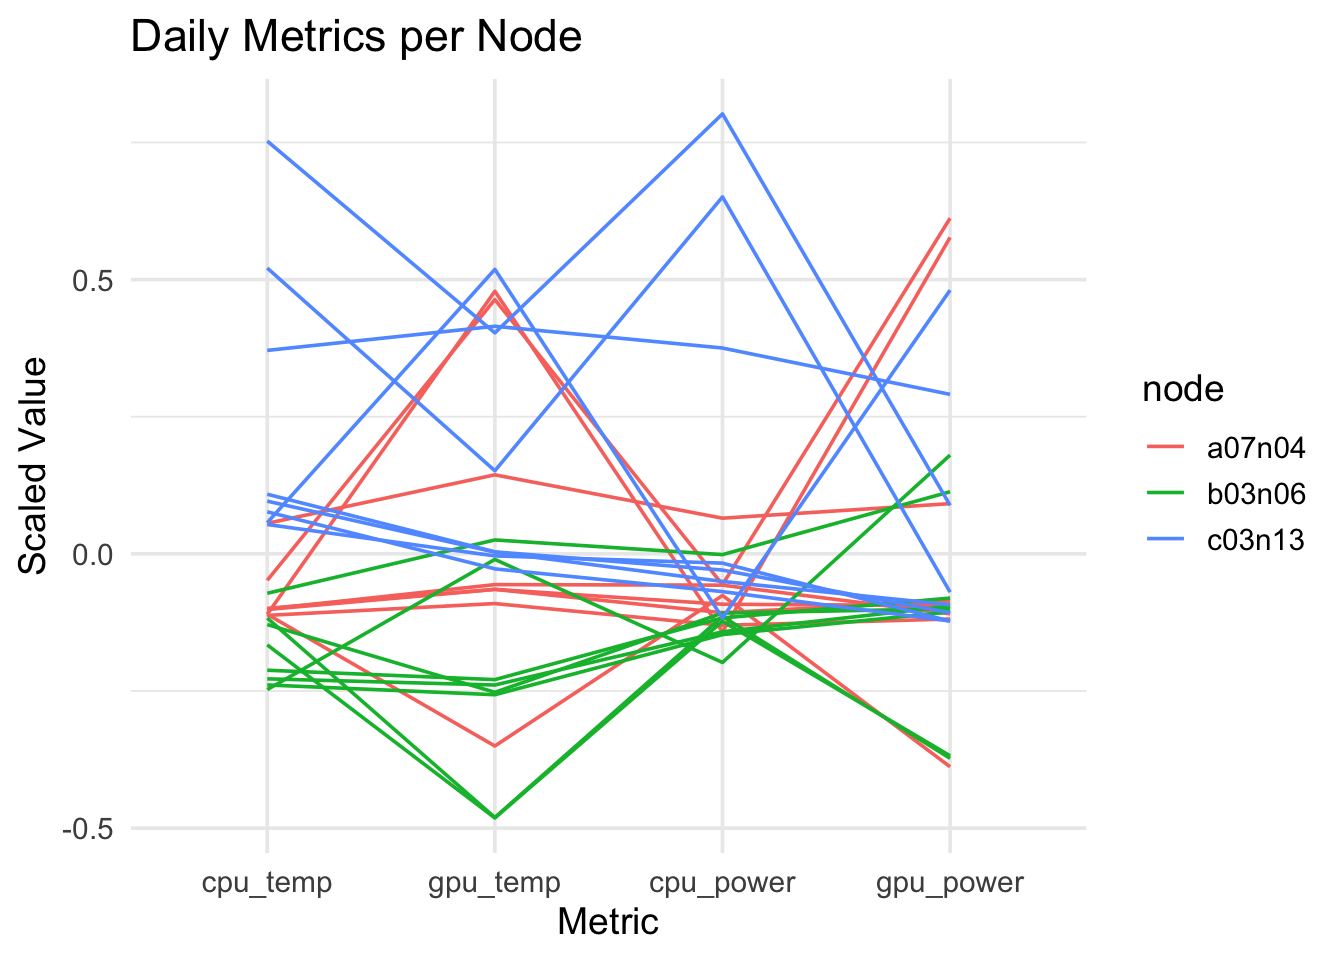
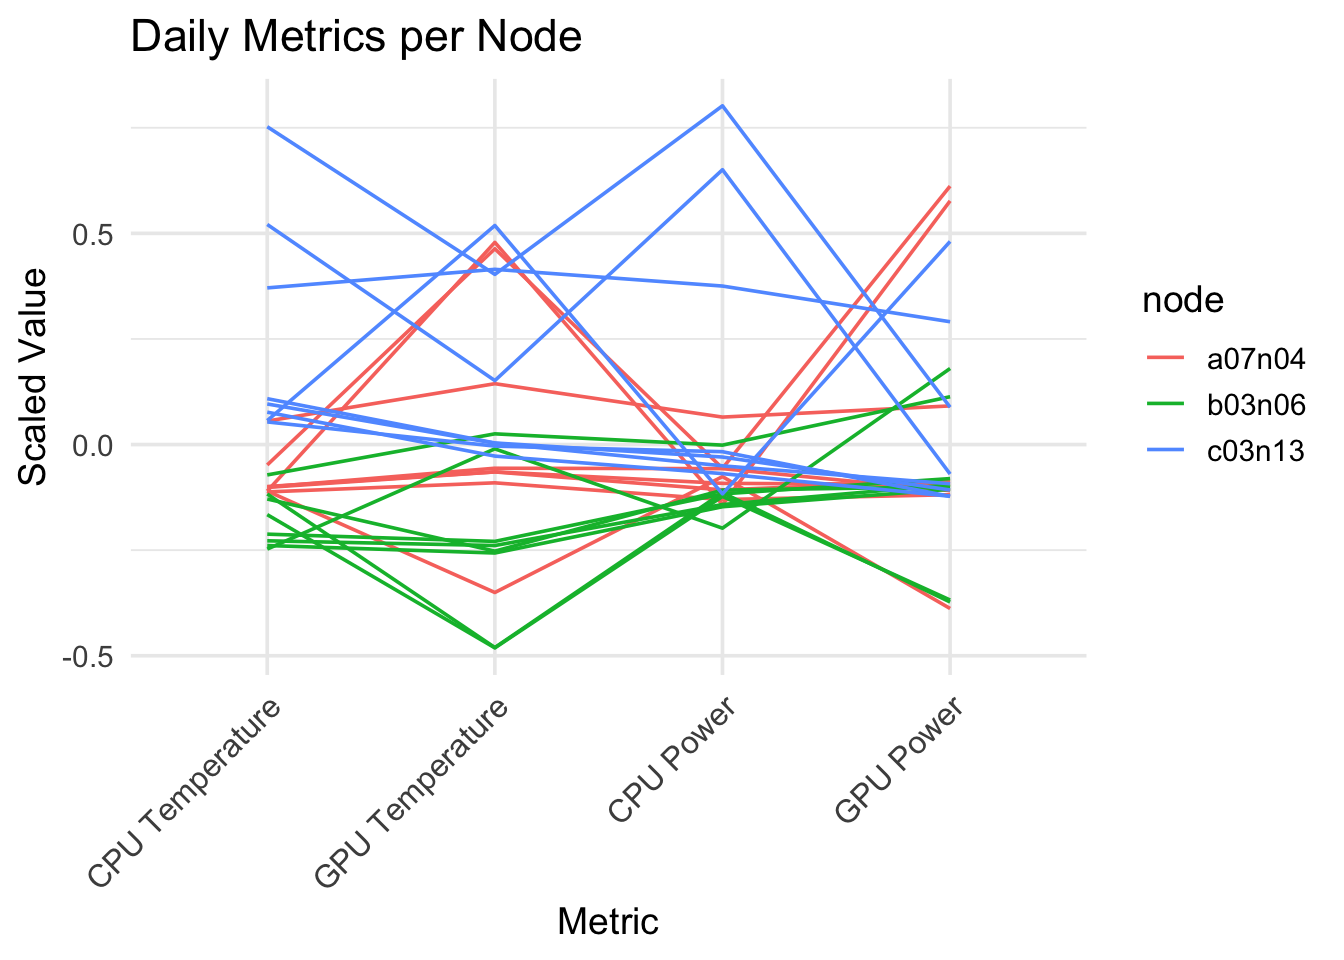
Project Submission Commit

diff --git a/docs/results.html b/docs/results.html
@@ -210,7 +210,7 @@ pre > code.sourceCode > span > a:first-child::before { text-decoration: underlin
 
 <section id="short-summary" class="level2" data-number="3.1">
 <h2 data-number="3.1" class="anchored" data-anchor-id="short-summary"><span class="header-section-number">3.1</span> Short Summary</h2>
-<p>Across the three computing nodes studied, temperature and power were closely related. Whenever the processing units worked harder, they drew more power and heated up almost immediately. While most of the week showed routine low temperature operation, each node also had short bursts of heat and power, which made unusual activity easy to spot. When coming their overall behavior, the nodes shared similar baseline performance, however, their power and temperature distributions uncovered some nodes may handle more demanding jobs or experience different cooling conditions. These patterns reveal how power usage, temperature, and occasional anomalies can vary within the same machine, offering insight into each node’s operational health.</p>
+<p>Across the three computing nodes studied, temperature and power were closely related. Whenever the processing units worked harder, they drew more power and heated up almost immediately. While most of the week showed routine low temperature operation, each node also had short bursts of heat and power, which made unusual activity easy to spot. The nodes shared similar baseline performance, however, their power and temperature distributions uncovered some nodes may handle more demanding jobs or experience different cooling conditions. These patterns reveal how power usage, temperature, and occasional anomalies can vary within the same machine, offering insight into each node’s operational health.</p>
 <div class="cell">
 <details class="code-fold">
 <summary>Code</summary>
@@ -427,20 +427,25 @@ pre > code.sourceCode > span > a:first-child::before { text-decoration: underlin
 <details class="code-fold">
 <summary>Code</summary>
 <div class="sourceCode cell-code" id="cb9"><pre class="sourceCode r code-with-copy"><code class="sourceCode r"><span id="cb9-1"><a href="#cb9-1" aria-hidden="true" tabindex="-1"></a>df_trc <span class="ot">&lt;-</span> df_all <span class="sc">|&gt;</span></span>
-<span id="cb9-2"><a href="#cb9-2" aria-hidden="true" tabindex="-1"></a>  <span class="fu">mutate</span>(</span>
-<span id="cb9-3"><a href="#cb9-3" aria-hidden="true" tabindex="-1"></a>    <span class="at">date =</span> <span class="fu">as.Date</span>(timestamp)</span>
-<span id="cb9-4"><a href="#cb9-4" aria-hidden="true" tabindex="-1"></a>  )</span>
-<span id="cb9-5"><a href="#cb9-5" aria-hidden="true" tabindex="-1"></a></span>
-<span id="cb9-6"><a href="#cb9-6" aria-hidden="true" tabindex="-1"></a><span class="fu">ggplot</span>(df_trc, <span class="fu">aes</span>(gpu_power_total, gpu_temp, <span class="at">color =</span> <span class="fu">factor</span>(date))) <span class="sc">+</span></span>
-<span id="cb9-7"><a href="#cb9-7" aria-hidden="true" tabindex="-1"></a>  <span class="fu">geom_smooth</span>(<span class="at">method =</span> <span class="st">"lm"</span>, <span class="at">se =</span> <span class="cn">FALSE</span>, <span class="at">linewidth =</span> <span class="fl">1.1</span>) <span class="sc">+</span></span>
-<span id="cb9-8"><a href="#cb9-8" aria-hidden="true" tabindex="-1"></a>  <span class="fu">facet_wrap</span>(<span class="sc">~</span> node, <span class="at">scales =</span> <span class="st">"free"</span>) <span class="sc">+</span></span>
-<span id="cb9-9"><a href="#cb9-9" aria-hidden="true" tabindex="-1"></a>  <span class="fu">scale_color_viridis_d</span>(<span class="at">name =</span> <span class="st">"Date"</span>) <span class="sc">+</span></span>
-<span id="cb9-10"><a href="#cb9-10" aria-hidden="true" tabindex="-1"></a>  <span class="fu">labs</span>(</span>
-<span id="cb9-11"><a href="#cb9-11" aria-hidden="true" tabindex="-1"></a>    <span class="at">title =</span> <span class="st">"Thermal Response Curve: GPU Temperature vs GPU Power"</span>,</span>
-<span id="cb9-12"><a href="#cb9-12" aria-hidden="true" tabindex="-1"></a>    <span class="at">x =</span> <span class="st">"GPU Power (W)"</span>,</span>
-<span id="cb9-13"><a href="#cb9-13" aria-hidden="true" tabindex="-1"></a>    <span class="at">y =</span> <span class="st">"GPU Temperature (°C)"</span></span>
-<span id="cb9-14"><a href="#cb9-14" aria-hidden="true" tabindex="-1"></a>  ) <span class="sc">+</span></span>
-<span id="cb9-15"><a href="#cb9-15" aria-hidden="true" tabindex="-1"></a>  <span class="fu">theme_minimal</span>(<span class="at">base_size =</span> <span class="dv">16</span>)</span></code><button title="Copy to Clipboard" class="code-copy-button"><i class="bi"></i></button></pre></div>
+<span id="cb9-2"><a href="#cb9-2" aria-hidden="true" tabindex="-1"></a>  <span class="fu">mutate</span>(<span class="at">date =</span> <span class="fu">as.Date</span>(timestamp))</span>
+<span id="cb9-3"><a href="#cb9-3" aria-hidden="true" tabindex="-1"></a></span>
+<span id="cb9-4"><a href="#cb9-4" aria-hidden="true" tabindex="-1"></a><span class="fu">ggplot</span>(df_trc, <span class="fu">aes</span>(gpu_power_total, gpu_temp, <span class="at">color =</span> <span class="fu">factor</span>(date))) <span class="sc">+</span></span>
+<span id="cb9-5"><a href="#cb9-5" aria-hidden="true" tabindex="-1"></a>  <span class="fu">geom_smooth</span>(<span class="at">method =</span> <span class="st">"lm"</span>, <span class="at">se =</span> <span class="cn">FALSE</span>, <span class="at">linewidth =</span> <span class="fl">1.1</span>) <span class="sc">+</span></span>
+<span id="cb9-6"><a href="#cb9-6" aria-hidden="true" tabindex="-1"></a>  <span class="fu">facet_wrap</span>(<span class="sc">~</span> node, <span class="at">scales =</span> <span class="st">"free_x"</span>) <span class="sc">+</span></span>
+<span id="cb9-7"><a href="#cb9-7" aria-hidden="true" tabindex="-1"></a>  <span class="fu">scale_x_continuous</span>(</span>
+<span id="cb9-8"><a href="#cb9-8" aria-hidden="true" tabindex="-1"></a>    <span class="at">breaks =</span> <span class="fu">c</span>(<span class="dv">500</span>, <span class="dv">1000</span>, <span class="dv">1500</span>, <span class="dv">2000</span>),</span>
+<span id="cb9-9"><a href="#cb9-9" aria-hidden="true" tabindex="-1"></a>    <span class="at">labels =</span> <span class="fu">c</span>(<span class="st">"500"</span>, <span class="st">"1000"</span>, <span class="st">"1500"</span>, <span class="st">"2000"</span>)</span>
+<span id="cb9-10"><a href="#cb9-10" aria-hidden="true" tabindex="-1"></a>  ) <span class="sc">+</span></span>
+<span id="cb9-11"><a href="#cb9-11" aria-hidden="true" tabindex="-1"></a>  <span class="fu">scale_color_viridis_d</span>(<span class="at">name =</span> <span class="st">"Date"</span>) <span class="sc">+</span></span>
+<span id="cb9-12"><a href="#cb9-12" aria-hidden="true" tabindex="-1"></a>  <span class="fu">labs</span>(</span>
+<span id="cb9-13"><a href="#cb9-13" aria-hidden="true" tabindex="-1"></a>    <span class="at">title =</span> <span class="st">"Thermal Response Curve: GPU Temperature vs GPU Power"</span>,</span>
+<span id="cb9-14"><a href="#cb9-14" aria-hidden="true" tabindex="-1"></a>    <span class="at">x =</span> <span class="st">"GPU Power (W)"</span>,</span>
+<span id="cb9-15"><a href="#cb9-15" aria-hidden="true" tabindex="-1"></a>    <span class="at">y =</span> <span class="st">"GPU Temperature (°C)"</span></span>
+<span id="cb9-16"><a href="#cb9-16" aria-hidden="true" tabindex="-1"></a>  ) <span class="sc">+</span></span>
+<span id="cb9-17"><a href="#cb9-17" aria-hidden="true" tabindex="-1"></a>  <span class="fu">theme_minimal</span>(<span class="at">base_size =</span> <span class="dv">16</span>) <span class="sc">+</span></span>
+<span id="cb9-18"><a href="#cb9-18" aria-hidden="true" tabindex="-1"></a>  <span class="fu">theme</span>(</span>
+<span id="cb9-19"><a href="#cb9-19" aria-hidden="true" tabindex="-1"></a>    <span class="at">axis.text.x =</span> <span class="fu">element_text</span>(<span class="at">angle =</span> <span class="dv">45</span>, <span class="at">hjust =</span> <span class="dv">1</span>)</span>
+<span id="cb9-20"><a href="#cb9-20" aria-hidden="true" tabindex="-1"></a>  )</span></code><button title="Copy to Clipboard" class="code-copy-button"><i class="bi"></i></button></pre></div>
 </details>
 <div class="cell-output-display">
 <div>
@@ -457,15 +462,31 @@ pre > code.sourceCode > span > a:first-child::before { text-decoration: underlin
 <div class="cell">
 <details class="code-fold">
 <summary>Code</summary>
-<div class="sourceCode cell-code" id="cb10"><pre class="sourceCode r code-with-copy"><code class="sourceCode r"><span id="cb10-1"><a href="#cb10-1" aria-hidden="true" tabindex="-1"></a>GGally<span class="sc">::</span><span class="fu">ggparcoord</span>(</span>
-<span id="cb10-2"><a href="#cb10-2" aria-hidden="true" tabindex="-1"></a>  df_daily,</span>
-<span id="cb10-3"><a href="#cb10-3" aria-hidden="true" tabindex="-1"></a>  <span class="at">columns =</span> <span class="fu">which</span>(<span class="fu">names</span>(df_daily) <span class="sc">%in%</span> <span class="fu">c</span>(<span class="st">"cpu_temp"</span>, <span class="st">"gpu_temp"</span>, <span class="st">"gpu_power"</span>, <span class="st">"cpu_power"</span>)),</span>
-<span id="cb10-4"><a href="#cb10-4" aria-hidden="true" tabindex="-1"></a>  <span class="at">groupColumn =</span> <span class="st">"node"</span>,</span>
-<span id="cb10-5"><a href="#cb10-5" aria-hidden="true" tabindex="-1"></a>  <span class="at">scale =</span> <span class="st">"center"</span></span>
-<span id="cb10-6"><a href="#cb10-6" aria-hidden="true" tabindex="-1"></a>) <span class="sc">+</span></span>
-<span id="cb10-7"><a href="#cb10-7" aria-hidden="true" tabindex="-1"></a>  <span class="fu">labs</span>(<span class="at">title =</span> <span class="st">"Daily Metrics per Node"</span>,</span>
-<span id="cb10-8"><a href="#cb10-8" aria-hidden="true" tabindex="-1"></a>       <span class="at">x =</span> <span class="st">"Metric"</span>, <span class="at">y =</span> <span class="st">"Scaled Value"</span>) <span class="sc">+</span></span>
-<span id="cb10-9"><a href="#cb10-9" aria-hidden="true" tabindex="-1"></a>  <span class="fu">theme_minimal</span>(<span class="at">base_size =</span> <span class="dv">14</span>)</span></code><button title="Copy to Clipboard" class="code-copy-button"><i class="bi"></i></button></pre></div>
+<div class="sourceCode cell-code" id="cb10"><pre class="sourceCode r code-with-copy"><code class="sourceCode r"><span id="cb10-1"><a href="#cb10-1" aria-hidden="true" tabindex="-1"></a>df_daily_pretty <span class="ot">&lt;-</span> df_daily <span class="sc">|&gt;</span></span>
+<span id="cb10-2"><a href="#cb10-2" aria-hidden="true" tabindex="-1"></a>  <span class="fu">rename</span>(</span>
+<span id="cb10-3"><a href="#cb10-3" aria-hidden="true" tabindex="-1"></a>    <span class="st">`</span><span class="at">CPU Temperature</span><span class="st">`</span> <span class="ot">=</span> cpu_temp,</span>
+<span id="cb10-4"><a href="#cb10-4" aria-hidden="true" tabindex="-1"></a>    <span class="st">`</span><span class="at">GPU Temperature</span><span class="st">`</span> <span class="ot">=</span> gpu_temp,</span>
+<span id="cb10-5"><a href="#cb10-5" aria-hidden="true" tabindex="-1"></a>    <span class="st">`</span><span class="at">GPU Power</span><span class="st">`</span>       <span class="ot">=</span> gpu_power,</span>
+<span id="cb10-6"><a href="#cb10-6" aria-hidden="true" tabindex="-1"></a>    <span class="st">`</span><span class="at">CPU Power</span><span class="st">`</span>       <span class="ot">=</span> cpu_power</span>
+<span id="cb10-7"><a href="#cb10-7" aria-hidden="true" tabindex="-1"></a>  )</span>
+<span id="cb10-8"><a href="#cb10-8" aria-hidden="true" tabindex="-1"></a></span>
+<span id="cb10-9"><a href="#cb10-9" aria-hidden="true" tabindex="-1"></a>GGally<span class="sc">::</span><span class="fu">ggparcoord</span>(</span>
+<span id="cb10-10"><a href="#cb10-10" aria-hidden="true" tabindex="-1"></a>  df_daily_pretty,</span>
+<span id="cb10-11"><a href="#cb10-11" aria-hidden="true" tabindex="-1"></a>  <span class="at">columns =</span> <span class="fu">which</span>(<span class="fu">names</span>(df_daily_pretty) <span class="sc">%in%</span> </span>
+<span id="cb10-12"><a href="#cb10-12" aria-hidden="true" tabindex="-1"></a>                    <span class="fu">c</span>(<span class="st">"CPU Temperature"</span>, <span class="st">"GPU Temperature"</span>, </span>
+<span id="cb10-13"><a href="#cb10-13" aria-hidden="true" tabindex="-1"></a>                      <span class="st">"GPU Power"</span>, <span class="st">"CPU Power"</span>)),</span>
+<span id="cb10-14"><a href="#cb10-14" aria-hidden="true" tabindex="-1"></a>  <span class="at">groupColumn =</span> <span class="st">"node"</span>,</span>
+<span id="cb10-15"><a href="#cb10-15" aria-hidden="true" tabindex="-1"></a>  <span class="at">scale =</span> <span class="st">"center"</span></span>
+<span id="cb10-16"><a href="#cb10-16" aria-hidden="true" tabindex="-1"></a>) <span class="sc">+</span></span>
+<span id="cb10-17"><a href="#cb10-17" aria-hidden="true" tabindex="-1"></a>  <span class="fu">labs</span>(</span>
+<span id="cb10-18"><a href="#cb10-18" aria-hidden="true" tabindex="-1"></a>    <span class="at">title =</span> <span class="st">"Daily Metrics per Node"</span>,</span>
+<span id="cb10-19"><a href="#cb10-19" aria-hidden="true" tabindex="-1"></a>    <span class="at">x =</span> <span class="st">"Metric"</span>,</span>
+<span id="cb10-20"><a href="#cb10-20" aria-hidden="true" tabindex="-1"></a>    <span class="at">y =</span> <span class="st">"Scaled Value"</span></span>
+<span id="cb10-21"><a href="#cb10-21" aria-hidden="true" tabindex="-1"></a>  ) <span class="sc">+</span></span>
+<span id="cb10-22"><a href="#cb10-22" aria-hidden="true" tabindex="-1"></a>  <span class="fu">theme_minimal</span>(<span class="at">base_size =</span> <span class="dv">14</span>) <span class="sc">+</span></span>
+<span id="cb10-23"><a href="#cb10-23" aria-hidden="true" tabindex="-1"></a>  <span class="fu">theme</span>(</span>
+<span id="cb10-24"><a href="#cb10-24" aria-hidden="true" tabindex="-1"></a>    <span class="at">axis.text.x =</span> <span class="fu">element_text</span>(<span class="at">size =</span> <span class="dv">12</span>, <span class="at">angle =</span> <span class="dv">45</span>, <span class="at">hjust =</span> <span class="dv">1</span>)</span>
+<span id="cb10-25"><a href="#cb10-25" aria-hidden="true" tabindex="-1"></a>  )</span></code><button title="Copy to Clipboard" class="code-copy-button"><i class="bi"></i></button></pre></div>
 </details>
 <div class="cell-output-display">
 <div>
@@ -504,7 +525,7 @@ pre > code.sourceCode > span > a:first-child::before { text-decoration: underlin
 </div>
 </div>
 </div>
-<p>Node c03n13 has the highest median CPU temperature, wide spread of temperatures, and the most extreme outliers meaning it consistently runs hotter than the other nodes. Nodes a07n04 and b03n06 are more tightly clustered indicating more stable thermal behavior.</p>
+<p>Node c03n13 has the highest median CPU temperature and the most extreme outliers meaning it consistently runs hotter than the other nodes. Nodes a07n04 and b03n06 are more tightly clustered indicating more stable thermal behavior.</p>
 <div class="cell">
 <details class="code-fold">
 <summary>Code</summary>

diff --git a/docs/index.html b/docs/index.html
@@ -7,7 +7,7 @@
 <meta name="viewport" content="width=device-width, initial-scale=1.0, user-scalable=yes">
 
 <meta name="author" content="Vara Tummala (vjt2110)">
-<meta name="dcterms.date" content="2025-12-09">
+<meta name="dcterms.date" content="2025-12-10">
 
 <title>Analysis of Power and Thermal Behavior in HPC Supercomputers</title>
 <style>
@@ -171,7 +171,7 @@ ul.task-list li input[type="checkbox"] {
     <div>
     <div class="quarto-title-meta-heading">Published</div>
     <div class="quarto-title-meta-contents">
-      <p class="date">December 9, 2025</p>
+      <p class="date">December 10, 2025</p>
     </div>
   </div>
   
